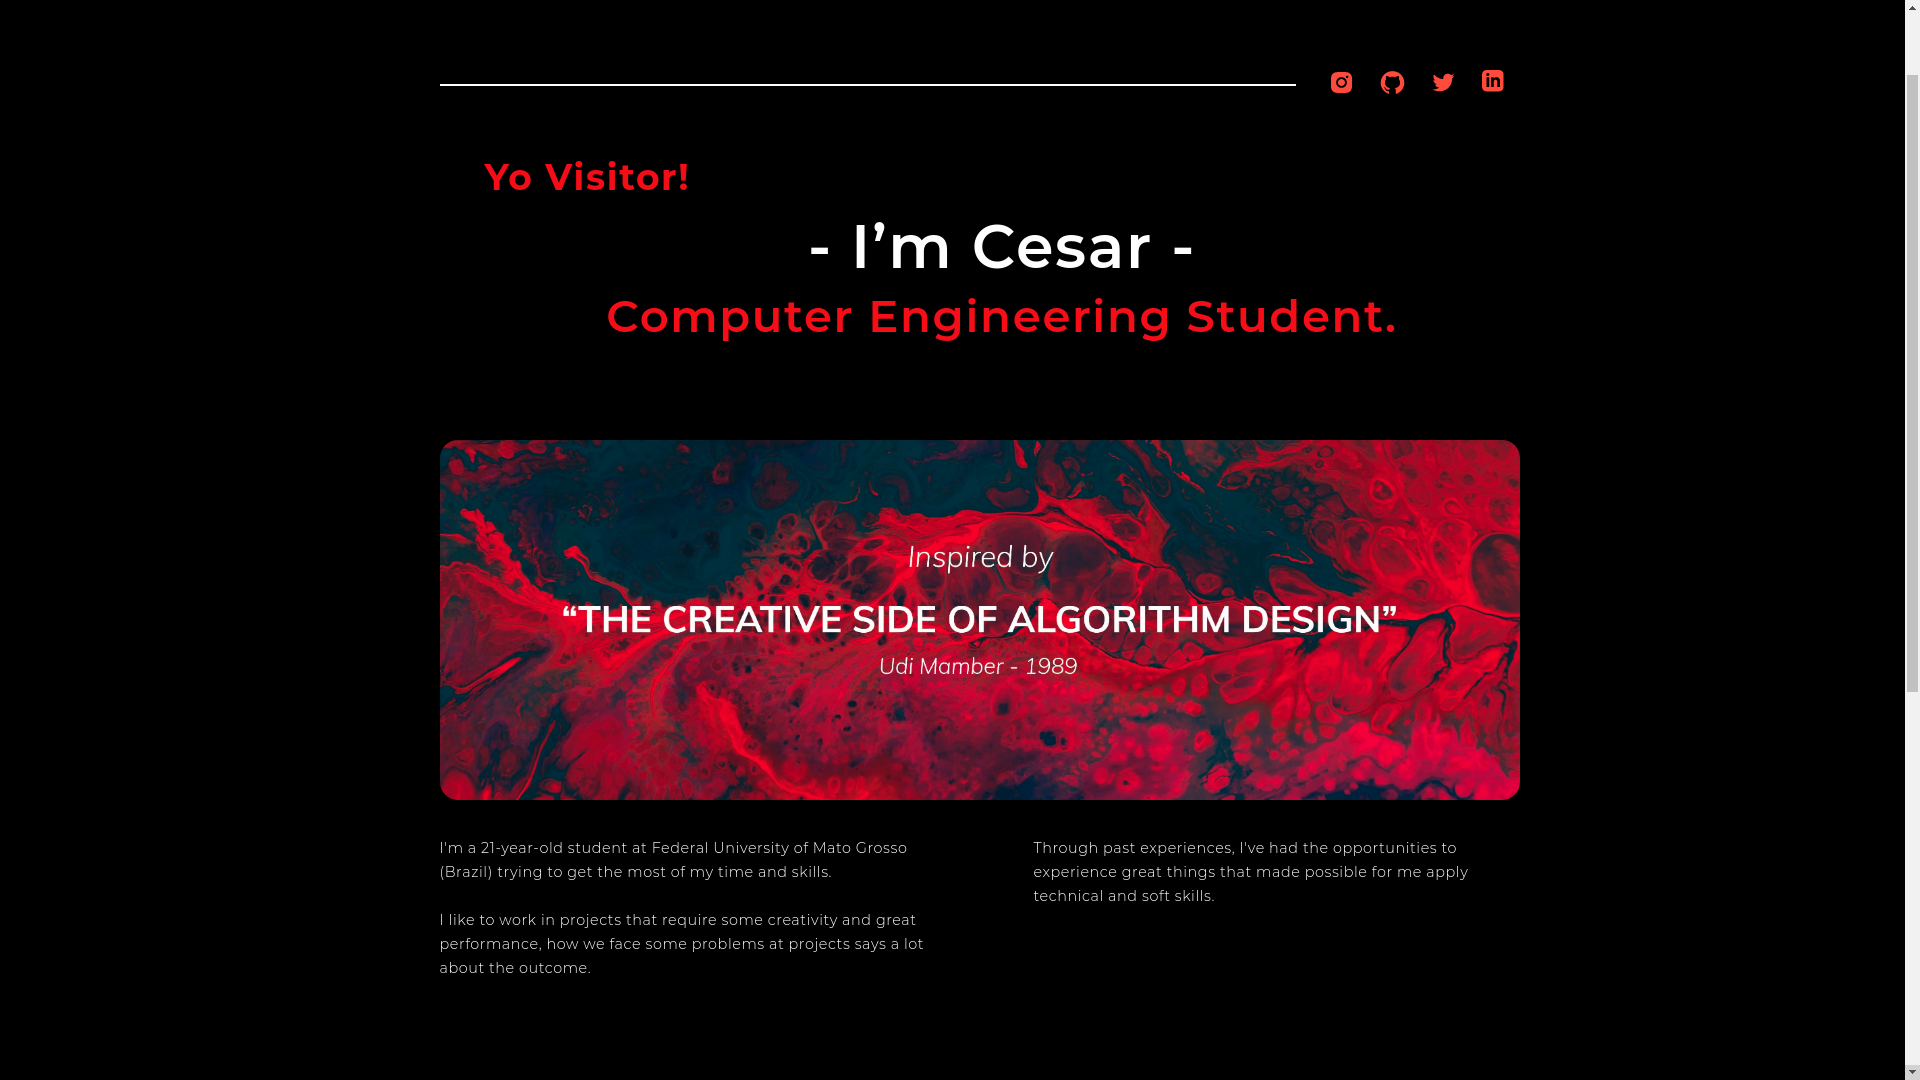
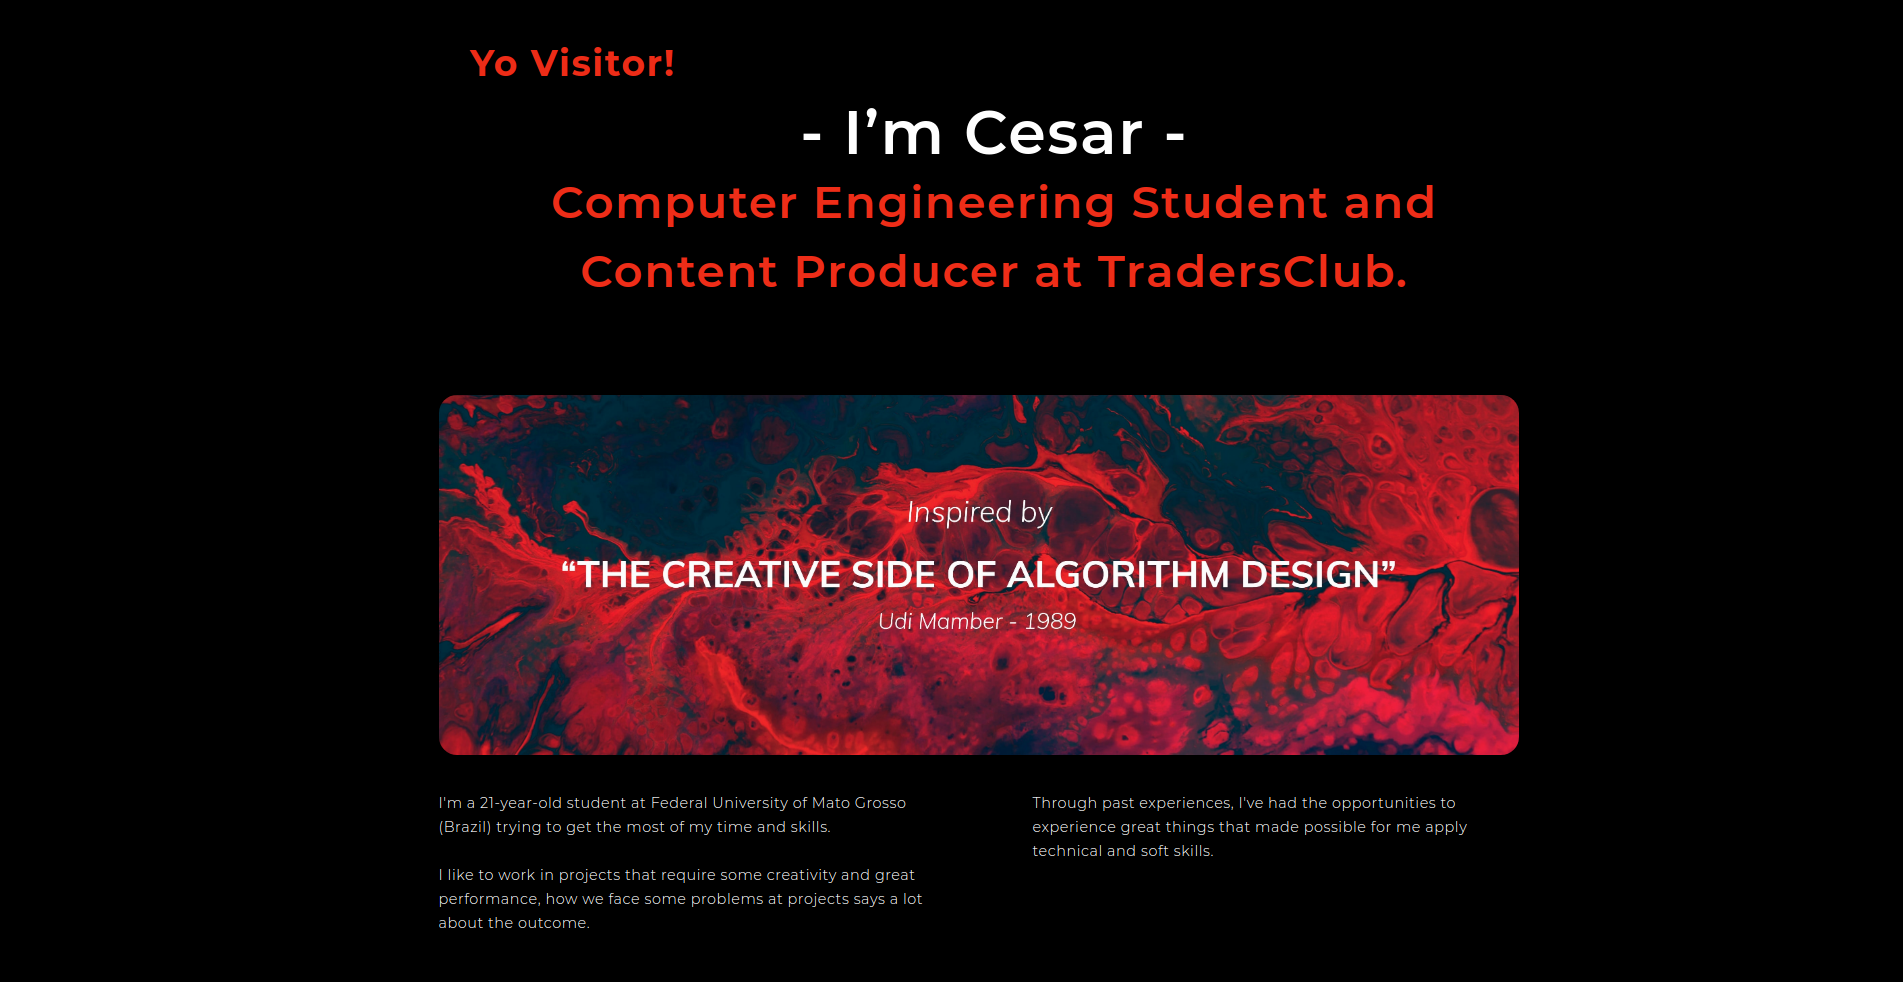
New role and deploy.

diff --git a/README.md b/README.md
@@ -1,5 +1,5 @@
 # CESARVSPR
-My home page, will be landing the page soon. 
+My home page, already available at cesarvspr.com. 
 Made with Gatsby (react, styled-components)
 
 ![Front page image](./img.png)
